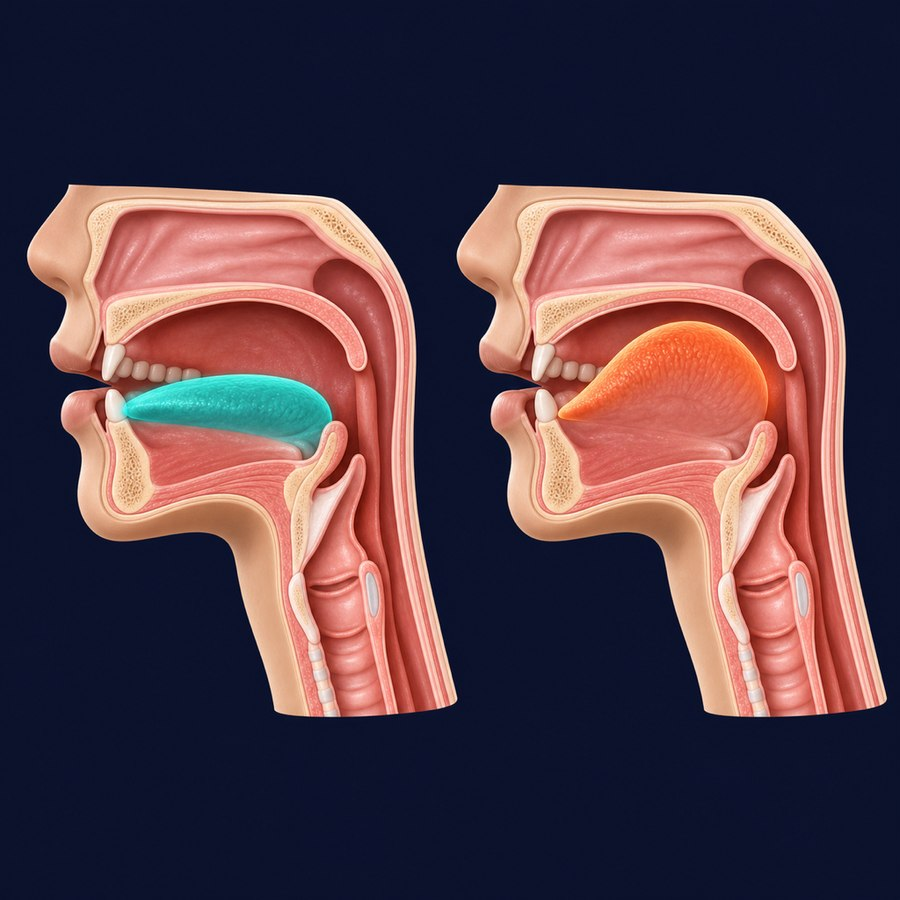
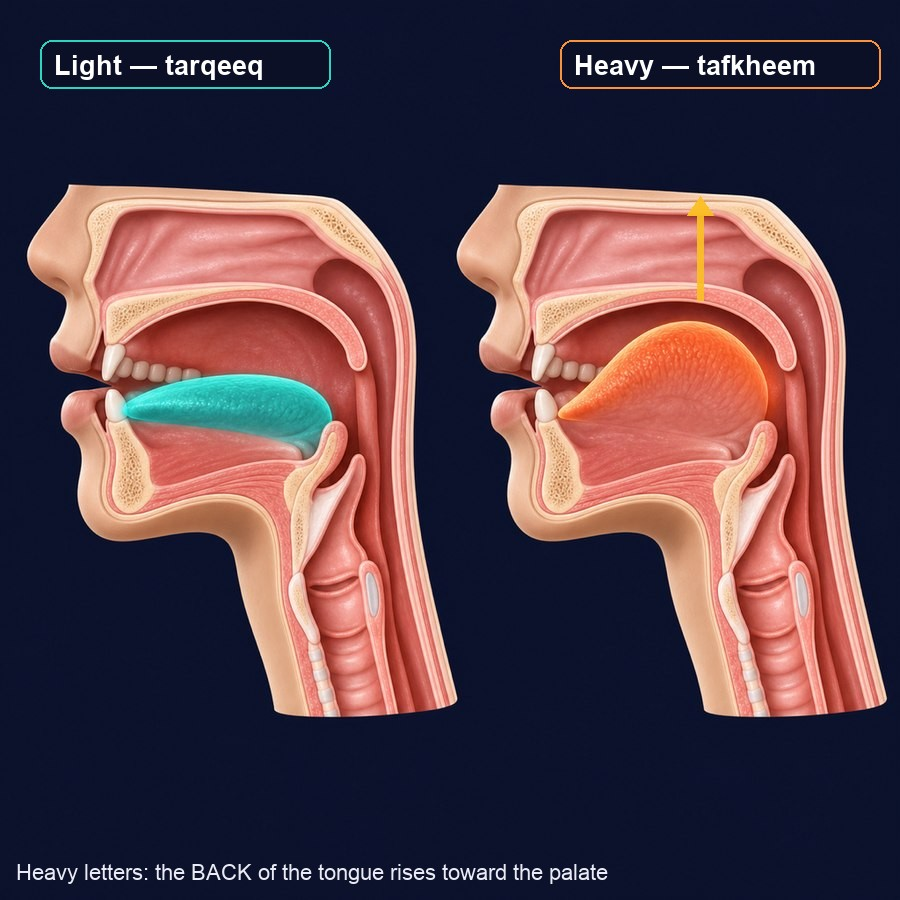
feat: teaching annotations on all makhraj images + video discoverability
Owner: images showed anatomy but didn't TEACH. Every image now carries
the reference-style annotations (Al Badri style): Arabic letters placed
AT their zone, rising airflow arrows, labeled chips with leader lines,
and a one-line takeaway caption. Letter slides with a dedicated
pronunciation video now say so under the letter (tap opens the inline
embed). Frame-by-frame animation captured in WISHLIST with honest
options.

diff --git a/src/components/SlideDeck.tsx b/src/components/SlideDeck.tsx
@@ -46,6 +46,9 @@ function SlideView({ slide }: { slide: Slide }) {
             </div>
           )}
           <TapToHear item={slide.item} size="lg" showName={false} />
+          {slide.item.audio.type === "youtube-cue" && (
+            <p className="mt-2 text-sm text-white/60">▶ Tap the letter above to watch how it&apos;s pronounced</p>
+          )}
           <p className="mt-4 text-2xl font-semibold text-white">{slide.item.name}{slide.item.translit ? ` — ${slide.item.translit}` : ""}</p>
           <p className="mt-2 text-lg text-white/80"><span className="font-semibold text-white">Makhraj:</span> {slide.makhraj}</p>
           {slide.forms && (

diff --git a/WISHLIST.md b/WISHLIST.md
@@ -25,3 +25,7 @@ Capture inbox. Append-only — nothing here is scheduled. Scoped work gets promo
 ## 2026-07-21 — codex image generation blocked (quota)
 
 - **Regenerate ALL makhraj visuals as real-anatomy raster images via codex imagine** once the owner's codex quota resets (**Jul 25 2026 6:50 PM**; or sooner with credits / an OPENAI_API_KEY in ~/.codex/auth.json). Owner rejected line-art SVGs; halq-zones already replaced with an adapted OpenStax CC BY figure — the other six (overview/jawf/halq/lisan/shafatan/heavy-light) are still brightened SVGs awaiting raster replacements. Command shape that works: codex exec -m gpt-5.4 -s workspace-write --skip-git-repo-check "<prompt using its image tool>".
+
+## 2026-07-22 — movement teaching (owner request)
+
+- **Frame-by-frame makhraj animations.** Owner wants actual MOVEMENT shown per letter (tongue/lip motion while pronouncing). Generated-image keyframes lack cross-frame consistency today; options when picked up: (a) hunt licensed/embeddable ANIMATED makharij videos on YouTube per zone and wire as visible embeds, (b) coherent multi-frame generation or video-gen when available in codex, (c) CSS/SVG micro-animations (e.g. animated arrow paths over the annotated stills). Static images are now annotated with letters/arrows/labels (this round) as the baseline.
